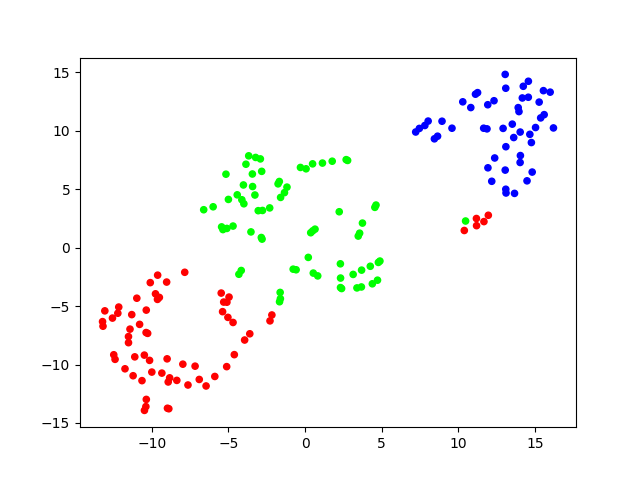
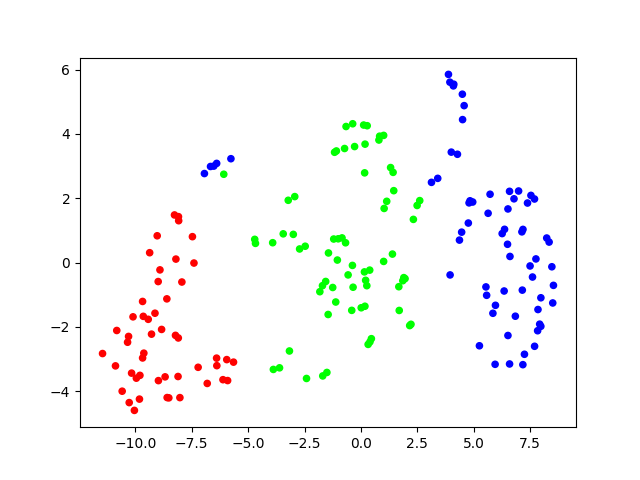
aspc bn smaller ae

diff --git a/src/nets.py b/src/nets.py
@@ -1,4 +1,4 @@
-from keras.layers import Dropout, Input, Dense, Conv2D, Flatten, Reshape, Conv2DTranspose, BatchNormalization, Concatenate, MaxPooling2D, UpSampling2D
+from keras.layers import Dropout, Input, Dense, Conv2D, Flatten, Reshape, Conv2DTranspose, BatchNormalization, Concatenate, MaxPooling2D, UpSampling2D, ReLU
 from keras.models import Model
 from keras import backend as K
 from keras.engine.topology import InputSpec, Layer
@@ -55,37 +55,79 @@ K.set_image_data_format('channels_last')
 
 #     return Model(inputs=input_img, outputs=h, name='encoder')
 
+# -------------------------------------------------------------------------------------------
 
-def autoencoder(input_shape=(128, 128, 1), filters=[32, 64, 300]):
+# def autoencoder(input_shape=(128, 128, 1), filters=[32, 300]):
+
+#     input_img = Input(shape=input_shape)
+#     init = VarianceScaling(scale=1. / 3., mode='fan_in', distribution='uniform')
+
+#     # Encoder
+#     x = Conv2D(filters[0], 3, strides=2, padding='same', activation='relu', name='conv1', input_shape=input_shape, kernel_initializer=init)(input_img)
+#     # x = Conv2D(filters[1], 3, strides=2, padding='same', activation='relu', name='conv2', kernel_initializer=init)(x)
+
+#     x = Flatten(name='flatten_1')(x)
+
+#     encoded = Dense(units=filters[-1], name='encoded', kernel_initializer=init)(x)
+
+#     # Decoder
+#     x = Dense(units=64*64*filters[0], activation='relu', kernel_initializer=init)(encoded)
+#     x = Reshape((64, 64, filters[0]))(x)
+#     #x = Conv2DTranspose(filters[0], 4, strides=2, padding='same', activation='relu', name='deconv2', kernel_initializer=init)(x)
+#     decoded = Conv2DTranspose(1, 4, strides=2, padding='same', name='deconv1', kernel_initializer=init)(x)
+
+#     return Model(inputs=input_img, outputs=decoded, name='CAE'), Model(inputs=input_img, outputs=encoded, name='CE')
+
+
+# def encoder(input_shape=(128, 128, 1), filters=[32, 64, 300]):
+
+#     input_img = Input(shape=input_shape)
+#     init = VarianceScaling(scale=1. / 3., mode='fan_in', distribution='uniform')
+
+#     # Encoder
+#     x = Conv2D(filters[0], 4, strides=2, padding='same', activation='relu', name='conv1', input_shape=input_shape, kernel_initializer=init)(input_img)
+#     x = Conv2D(filters[1], 4, strides=2, padding='same', activation='relu', name='conv2', kernel_initializer=init)(x)
+
+#     x = Flatten(name='flatten_1')(x)
+
+#     encoded = Dense(units=filters[-1], name='encoded', kernel_initializer=init)(x)
+
+#     return Model(inputs=input_img, outputs=encoded, name='CE')
+
+# ----------------------------------------------------------------------------------------------------------------
+
+
+def autoencoder(input_shape=(128, 128, 1), filters=[32, 300]):
 
     input_img = Input(shape=input_shape)
     init = VarianceScaling(scale=1. / 3., mode='fan_in', distribution='uniform')
 
     # Encoder
-    x = Conv2D(filters[0], 4, strides=2, padding='same', activation='relu', name='conv1', input_shape=input_shape, kernel_initializer=init)(input_img)
-    x = Conv2D(filters[1], 4, strides=2, padding='same', activation='relu', name='conv2', kernel_initializer=init)(x)
+    x = Conv2D(filters[0], 3, strides=2, padding='same', name='conv1', input_shape=input_shape, kernel_initializer=init)(input_img)
+    x = BatchNormalization()(x)
+    x = ReLU(input_shape=x.shape)(x)
 
     x = Flatten(name='flatten_1')(x)
 
     encoded = Dense(units=filters[-1], name='encoded', kernel_initializer=init)(x)
 
     # Decoder
-    x = Dense(units=32*32*filters[1], activation='relu', kernel_initializer=init)(encoded)
-    x = Reshape((32, 32, filters[1]))(x)
-    x = Conv2DTranspose(filters[0], 4, strides=2, padding='same', activation='relu', name='deconv2', kernel_initializer=init)(x)
+    x = Dense(units=64*64*filters[0], activation='relu', kernel_initializer=init)(encoded)
+    x = Reshape((64, 64, filters[0]))(x)
     decoded = Conv2DTranspose(1, 4, strides=2, padding='same', name='deconv1', kernel_initializer=init)(x)
 
     return Model(inputs=input_img, outputs=decoded, name='CAE'), Model(inputs=input_img, outputs=encoded, name='CE')
 
 
-def encoder(input_shape=(128, 128, 1), filters=[32, 64, 300]):
+def encoder(input_shape=(128, 128, 1), filters=[32, 300]):
 
     input_img = Input(shape=input_shape)
     init = VarianceScaling(scale=1. / 3., mode='fan_in', distribution='uniform')
 
     # Encoder
-    x = Conv2D(filters[0], 4, strides=2, padding='same', activation='relu', name='conv1', input_shape=input_shape, kernel_initializer=init)(input_img)
-    x = Conv2D(filters[1], 4, strides=2, padding='same', activation='relu', name='conv2', kernel_initializer=init)(x)
+    x = Conv2D(filters[0], 3, strides=2, padding='same', name='conv1', input_shape=input_shape, kernel_initializer=init)(input_img)
+    x = BatchNormalization()(x)
+    x = ReLU(input_shape=x.shape)(x)
 
     x = Flatten(name='flatten_1')(x)
 

diff --git a/src/visualization.py b/src/visualization.py
@@ -45,7 +45,7 @@ def plot_ae_tsne(encoder, ce_weights, figures, dataset, epoch=''):
     # ax.scatter(centers3d[0], centers3d[1], centers3d[2], c='black')
     # plt.savefig(os.path.join(figures, 'kmeans_ae_' + epoch))
     plt.figure()
-    tsne = TSNE(n_components=2, perplexity=30, n_iter=5000)
+    tsne = TSNE(n_components=2, perplexity=50, n_iter=3000)
     embedding = tsne.fit_transform(features)
     # centers2d = tsne.fit_transform(centers3d)
     plt.scatter(embedding[:, 0], embedding[:, 1], c=y_pred, s=20, cmap='brg')
@@ -76,7 +76,7 @@ def plot_ae_umap(encoder, ce_weights, figures, dataset, epoch=''):
     reducer.fit(features)
     embedding = reducer.transform(features)
     centers2d = reducer.transform(centers)
-    fig = plt.figure()
+    plt.figure()
     plt.scatter(embedding[:, 0], embedding[:, 1], c=y_pred, s=20, cmap='brg')
     plt.scatter(centers2d[:, 0], centers2d[:, 1], c='black', s=100)
     plt.savefig(os.path.join(figures, 'umap_encoder_' + epoch))
@@ -201,9 +201,11 @@ def plot_train_metrics(file, save_dir):
     plt.savefig(os.path.join(save_dir, 'train_val_acc_nmi_ari'))
 
 
-def plot_confusion_matrix(y_true, y_pred, save_dir):
-    matrix = confusion_matrix(
-        [int(i) for i in y_true], y_pred)
+def plot_confusion_matrix(y_true, y_pred, save_dir=os.path.join(cfg.figures, cfg.exp)):
+    # matrix = confusion_matrix(
+    #     [int(i) for i in y_true], y_pred)
+
+    matrix = confusion_matrix(y_true=y_true, y_pred=y_pred)
 
     plt.figure()
     sns.heatmap(matrix, annot=True, fmt="d", annot_kws={"size": 20})
@@ -214,6 +216,7 @@ def plot_confusion_matrix(y_true, y_pred, save_dir):
 
     D = max(y_pred.max(), y_true.max()) + 1
     w = np.zeros((D, D), dtype=np.int64)
+    
     # Confusion matrix.
     for i in range(y_pred.size):
         w[y_pred[i], y_true[i]] += 1

diff --git a/src/ASPC.py b/src/ASPC.py
@@ -239,7 +239,7 @@ if __name__ == "__main__":
     #             y_val=y_val, batch_size=16, epochs=1000)
 
     print('final metrics:')
-    _, _ = init_kmeans(x=x_test, y=y_test, weights=os.path.join(
+    y_pred, _ = init_kmeans(x=x_test, y=y_test, weights=os.path.join(
         cfg.ae_models, 'final_encoder_weights'))
 
     viz.plot_ae_tsne(
@@ -254,3 +254,12 @@ if __name__ == "__main__":
         os.path.join(cfg.figures, cfg.exp),
         x_test
     )
+    
+    viz.plot_confusion_matrix(y_test, y_pred)
+
+    viz.feature_map(scan=cfg.scans[0], exp=cfg.exp, layer=1, depth=32)
+    viz.feature_map(scan=cfg.scans[1], exp=cfg.exp, layer=1, depth=32)
+    viz.feature_map(scan=cfg.scans[2], exp=cfg.exp, layer=1, depth=32)
+    viz.feature_map(scan=cfg.scans[0], exp=cfg.exp, layer=2, depth=64)
+    viz.feature_map(scan=cfg.scans[1], exp=cfg.exp, layer=2, depth=64)
+    viz.feature_map(scan=cfg.scans[2], exp=cfg.exp, layer=2, depth=64)

diff --git a/src/pretrain.py b/src/pretrain.py
@@ -85,17 +85,17 @@ if __name__ == "__main__":
     x_test = x_test.reshape(x_test.shape[0], 128, 128, 1)
 
     # pretrain
-    # pretrain(
-    #     autoencoder=autoencoder,
-    #     encoder=encoder,
-    #     x_train=x_train,
-    #     x_val=x_val,
-    # )
+    pretrain(
+        autoencoder=autoencoder,
+        encoder=encoder,
+        x_train=x_train,
+        x_val=x_val,
+    )
 
-    # viz.plot_pretrain_metrics(
-    #     file=os.path.join(cfg.tables, cfg.exp, 'ae_train.csv'),
-    #     save_dir=os.path.join(cfg.figures, cfg.exp, 'ae'),
-    # )
+    viz.plot_pretrain_metrics(
+        file=os.path.join(cfg.tables, cfg.exp, 'ae_train.csv'),
+        save_dir=os.path.join(cfg.figures, cfg.exp, 'ae'),
+    )
     viz.plot_ae_tsne(
         nets.encoder(),
         cfg.ce_weights,
@@ -109,4 +109,3 @@ if __name__ == "__main__":
         x_train
     )
     print('plots pretrain done.')
-

diff --git a/src/config.py b/src/config.py
@@ -22,7 +22,7 @@ tables = '/home/fquaren/unimib/tesi/data/tables'
 figures = '/home/fquaren/unimib/tesi/reports/figures'
 experiments = '/home/fquaren/unimib/tesi/experiments'
 
-exp = 'aspc_final'
+exp = 'aspc_CAE_BN_32'
 
 ae_models = os.path.join(models, exp, 'ae')
 ae_weights = os.path.join(models, exp, 'ae', 'ae_weights')
@@ -40,13 +40,13 @@ my_callbacks = [
         save_weights_only=True,
         monitor='val_loss'
     ),
-    ReduceLROnPlateau(
-        monitor='val_loss',
-        factor=0.1,
-        patience=20,
-        verbose=1,
-        mode='min'
-    )
+    # ReduceLROnPlateau(
+    #     monitor='val_loss',
+    #     factor=0.1,
+    #     patience=20,
+    #     verbose=1,
+    #     mode='min'
+    # )
 ]
 
 

diff --git a/src/generators.py b/src/generators.py
@@ -90,12 +90,12 @@ def generators(x_train, x_val, batch_size):
 
     # setup generator
     train_generator = train_datagen.flow(
-        x_train, 
+        x_train,
         x_train,
         batch_size=batch_size,
     )
     val_generator = val_datagen.flow(
-        x_val, 
+        x_val,
         x_val,
         batch_size=batch_size,
         shuffle=False
@@ -105,7 +105,7 @@ def generators(x_train, x_val, batch_size):
 
 
 def generators_da(x_train, x_val, batch_size):
-    
+
     # define data augmentation configuration
     train_datagen = MyImageGenerator(
         rescale=1./225,

diff --git a/src/predict.py b/src/predict.py
@@ -54,7 +54,7 @@ def init_kmeans(x, y, n_clusters=3, verbose=True, weights=cfg.ce_weights):
     centers = kmeans.cluster_centers_
     if verbose:
         print('metrics:')
-        print('acc = {}; nmi = {}'.format(acc(y, y_pred), nmi(y, y_pred)))
+        print('ACC = {}; NMI = {}'.format(acc(y, y_pred), nmi(y, y_pred)))
     cfg.d_ae['acc'] = acc(y, y_pred)
     cfg.d_ae['nmi'] = nmi(y, y_pred)
     return y_pred, centers
